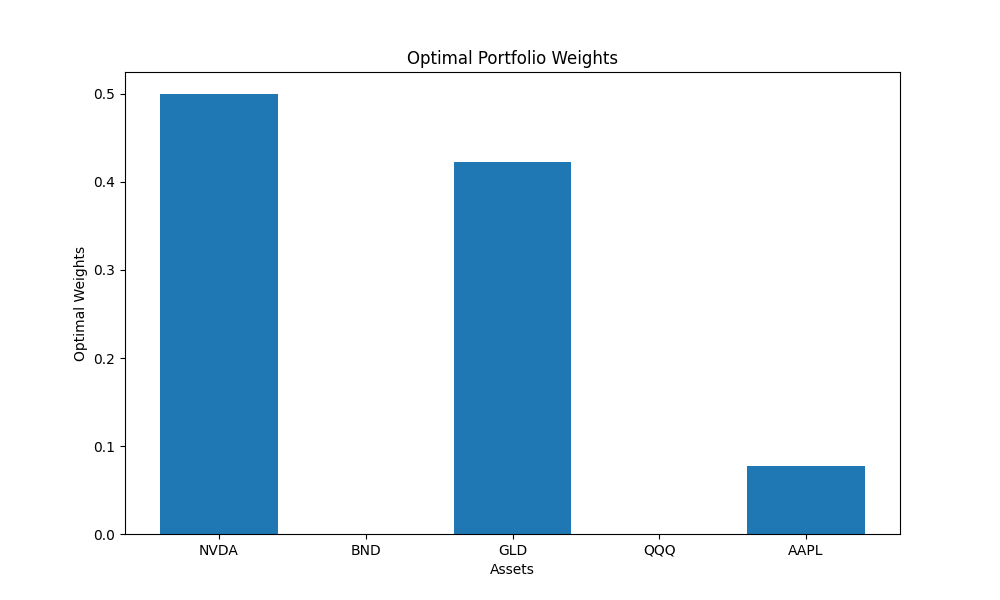
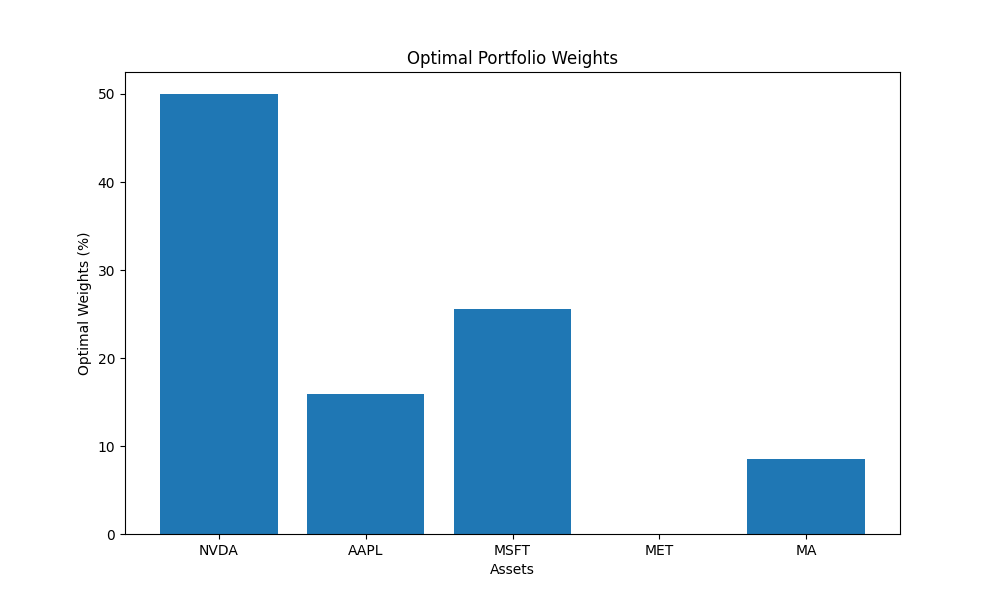
change the weights to percentage and added tables

diff --git a/templates/result.html b/templates/result.html
@@ -5,11 +5,26 @@
     <meta name="viewport" content="width=device-width, initial-scale=1.0">
     <title>Portfolio Optimization Results</title>
     <link rel="stylesheet" href="{{ url_for('static', filename='style.css') }}">
-
 </head>
 <body>
     <h1>Optimal Portfolio Weights</h1>
     <p>Here are the weights for your selected stocks:</p>
+    
+    <!-- Display the optimal weights as percentages -->
+    <table>
+        <tr>
+            <th>Stock</th>
+            <th>Optimal Weight</th>
+        </tr>
+        {% for ticker, weight in ticker_weights %}
+        <tr>
+            <td>{{ ticker }}</td>
+            <td>{{ '%.2f' % (weight * 100) }}%</td>  <!-- Convert weight to percentage -->
+        </tr>
+        {% endfor %}
+    </table>
+
+    <!-- Show the plot -->
     <img src="{{ plot_url }}" alt="Optimal Weights Chart">
     <p><a href="/">Search for another 5 stocks</a></p>
 </body>

diff --git a/app.py b/app.py
@@ -1,13 +1,11 @@
-from flask import Flask, render_template, request, redirect, url_for
-import yfinance as yf
-import pandas as pd
-from datetime import datetime, timedelta
-import numpy as np
-from scipy.optimize import minimize
-import matplotlib.pyplot as plt
-import io
-import base64
-from fredapi import Fred
+from flask import Flask, render_template, request, redirect, url_for # Web framework to build a web application
+import yfinance as yf # Libary to fetch stock data from Yahoo Finance
+import pandas as pd # Used for handling data tables like an excel sheet
+from datetime import datetime, timedelta # Toold for working wiht dates and times
+import numpy as np # For numerical operations and calculations
+from scipy.optimize import minimize # Used to optimize investment strategy 
+import matplotlib.pyplot as plt # Used for creating plots and graphs
+from fredapi import Fred # Fetches economic data from the Federal Reserve ex: interest rates
 import os
 
 app = Flask(__name__)
@@ -70,33 +68,27 @@ def index():
             )
             optimal_weights = optimized_results.x
             
-            # # Plot chart
-            # plt.figure(figsize=(10, 6))
-            # plt.bar(tickers, optimal_weights)
-            # plt.xlabel('Assets')
-            # plt.ylabel('Optimal Weights')
-            # plt.title('Optimal Portfolio Weights')
-            
-            # # Save chart to a string buffer
-            # buffer = io.BytesIO()
-            # plt.savefig(buffer, format="png")
-            # buffer.seek(0)
-            # image_data = base64.b64encode(buffer.read()).decode('utf-8')
-            # buffer.close()
             
             # return render_template("result.html", tickers=tickers, weights=optimal_weights, image_data=image_data)
             # Save the plot as an image file
             plot_path = os.path.join("static", "optimal_weights.png")  # Save it to the static folder
             plt.figure(figsize=(10, 6))
-            plt.bar(tickers, optimal_weights)
+
+            # Update to display percentages on the chart
+            plt.bar(tickers, optimal_weights * 100)  # Convert to percentage for display
             plt.xlabel('Assets')
-            plt.ylabel('Optimal Weights')
+            plt.ylabel('Optimal Weights (%)')  # Label in percentage
             plt.title('Optimal Portfolio Weights')
+
             plt.savefig(plot_path)
             plt.close()  # Close the plot to free resources
 
             # Pass the image file path to the result.html template
-            return render_template("result.html", tickers=tickers, weights=optimal_weights, plot_url=plot_path)
+            # Combine tickers and weights into a list of tuples
+            ticker_weights = list(zip(tickers, optimal_weights))  # Zip the tickers and weights together
+
+            # Pass the image file path and ticker_weights to the result.html template
+            return render_template("result.html", ticker_weights=ticker_weights, plot_url=plot_path)
         except Exception as e:
             return f"An error occurred: {str(e)}"
     
